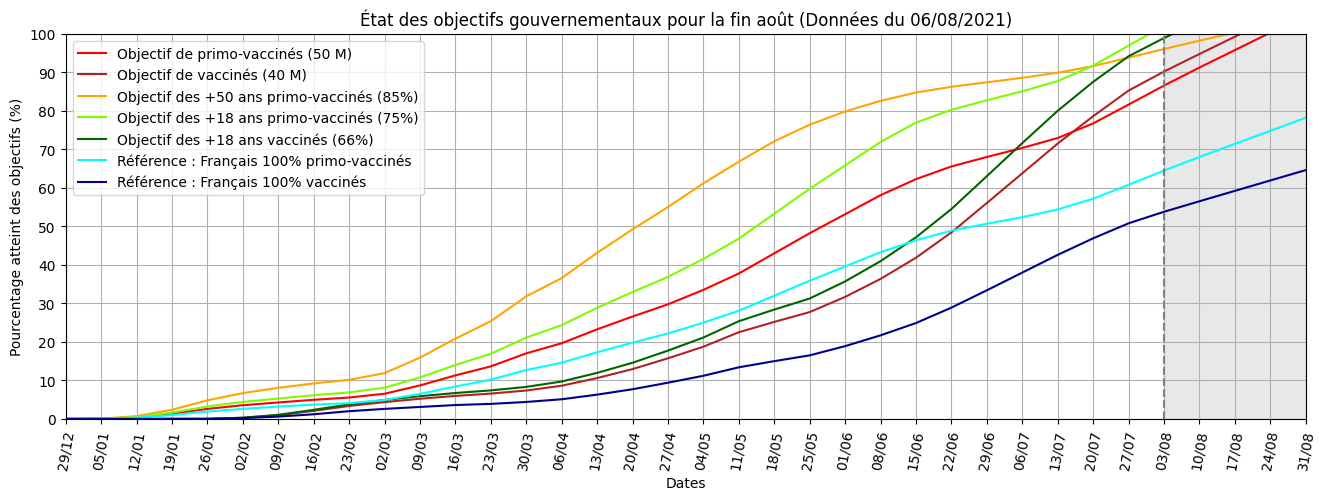
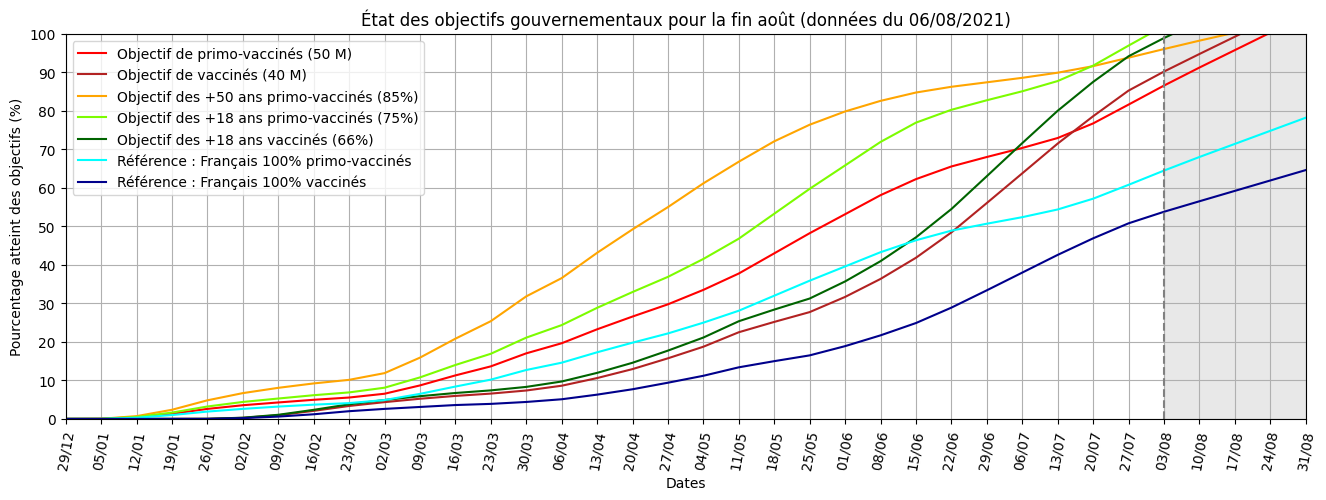
Données -> données

Changed region(s): [[0.2783, 0.03, 0.773, 0.06]]

diff --git a/main.py b/main.py
@@ -204,7 +204,7 @@ plt.legend()                                                                    
 plt.margins(0, 0)                                                               #Force la disparition des marges intérieures
 
 #Défini les titres du graphe et des axes x et y
-plt.title(f"État des objectifs gouvernementaux pour la fin août (Données du {nom_fichier[20:22]}/{nom_fichier[17:19]}/{nom_fichier[12:16]})")
+plt.title(f"État des objectifs gouvernementaux pour la fin août (données du {nom_fichier[20:22]}/{nom_fichier[17:19]}/{nom_fichier[12:16]})")
 plt.xlabel("Dates")
 plt.ylabel("Pourcentage atteint des objectifs (%)")
     
